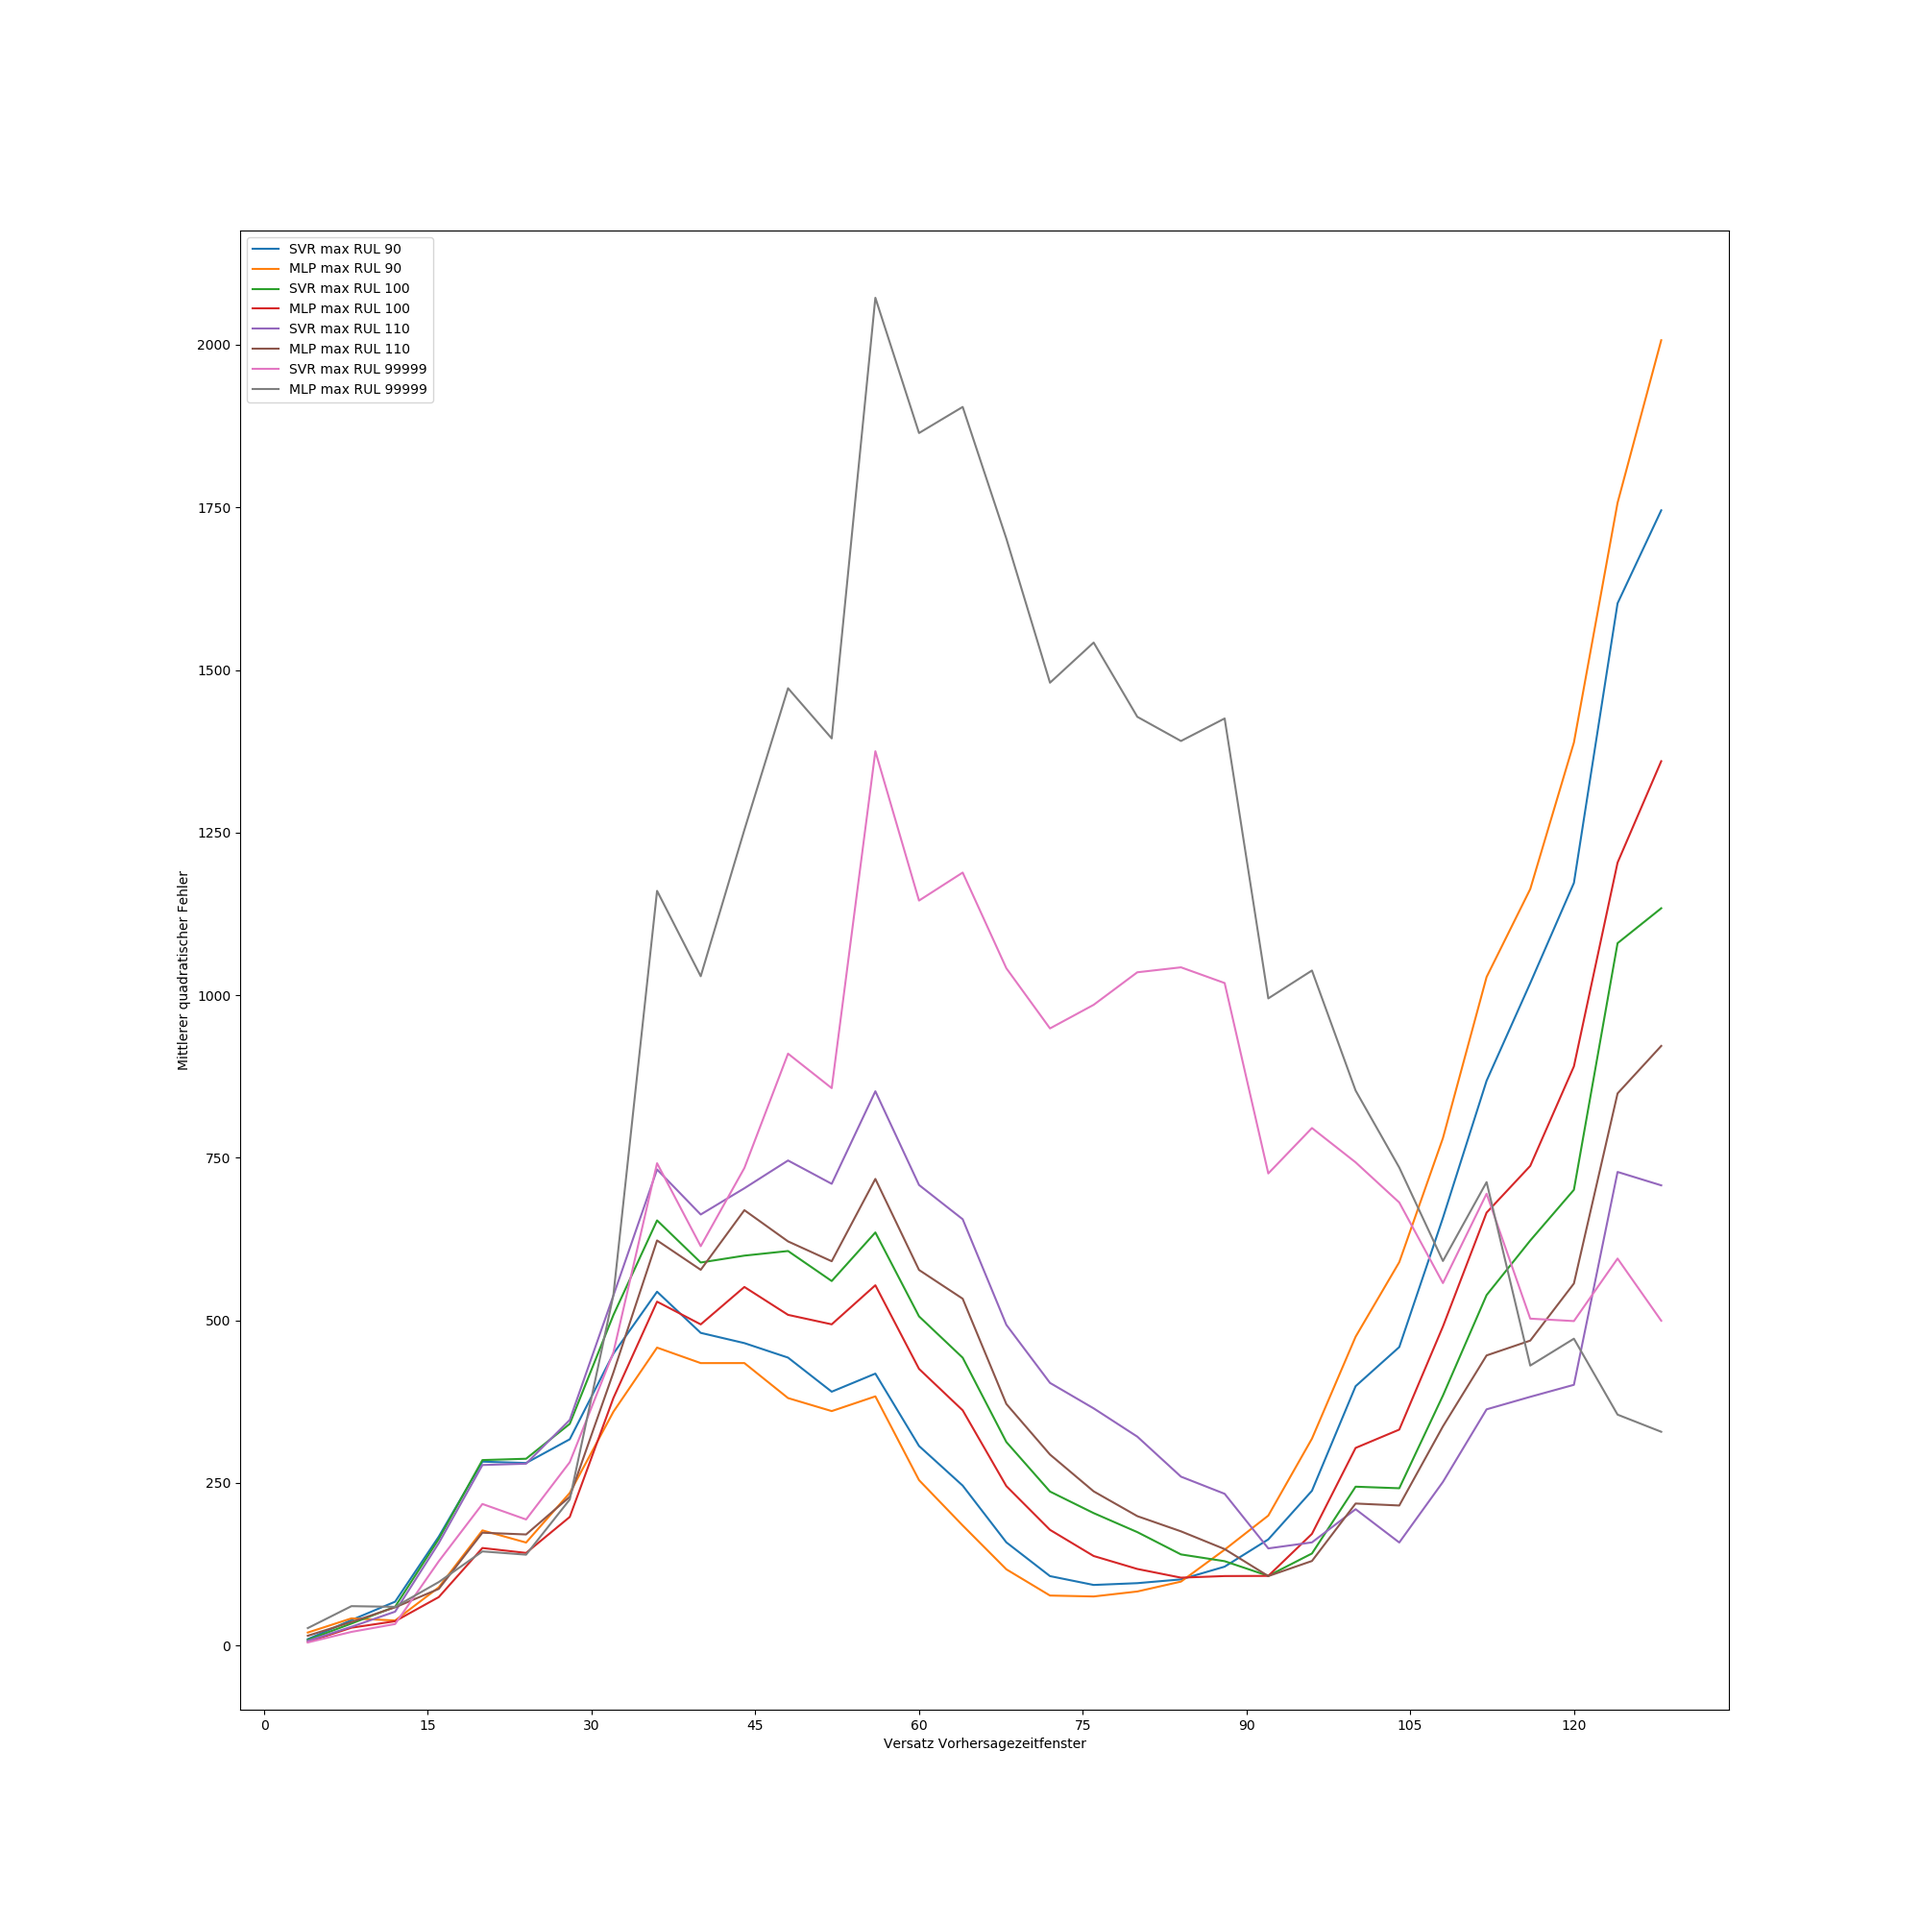
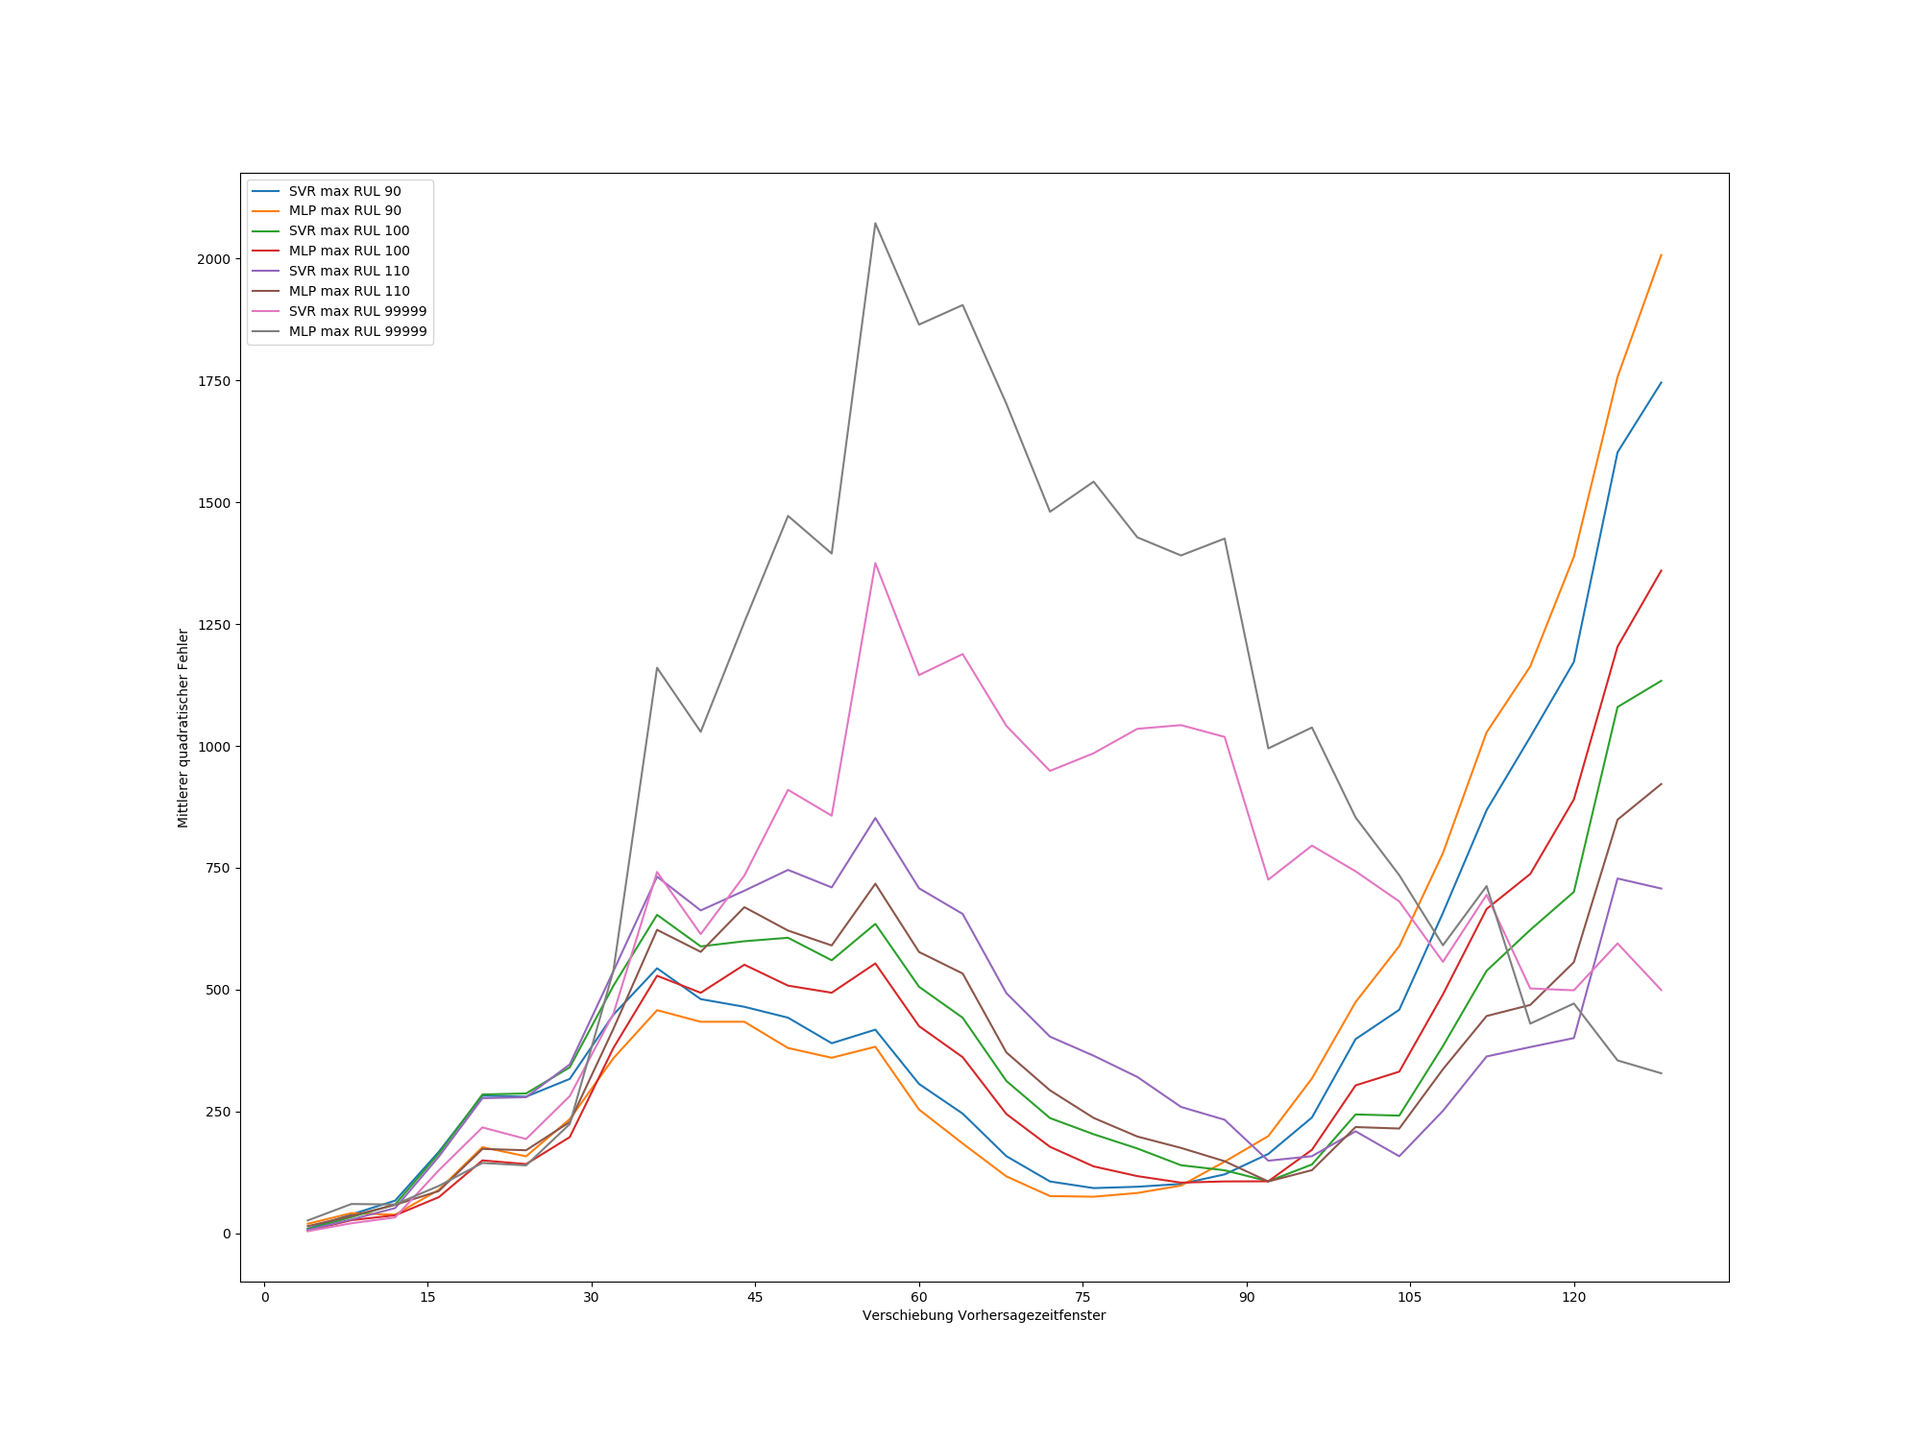
- added max_RUL plot

diff --git a/plots.py b/plots.py
@@ -55,7 +55,7 @@ def plot_sensor8_with_exp(df_train_unit_x):
 
 def plot_results():
     plt.figure(figsize=(20, 20))
-    plt.xlabel('Versatz Vorhersagezeitfenster')
+    plt.xlabel('Verschiebung Vorhersagezeitfenster')
     plt.ylabel('Mittlerer quadratischer Fehler')
 
     flg_x_plotted = False
@@ -76,5 +76,15 @@ def plot_results():
     plt.savefig(fname='figures/Ergebnisse_Valid.png', format='png')
     plt.show()
 
-plot_results()
+# plot_results()
+
+def plot_piece_wise_rul():
+    plt.figure(figsize=(20, 20))
+    plt.xlabel('Zeit in Zyklen')
+    plt.ylabel('Remaining Useful Lifetime (RUL)')
+    plt.plot([0,100,200],[100,100,0])
+    plt.savefig(fname='figures/max_RUL.png', format='png')
+    plt.show()
+
+plot_piece_wise_rul()
 
